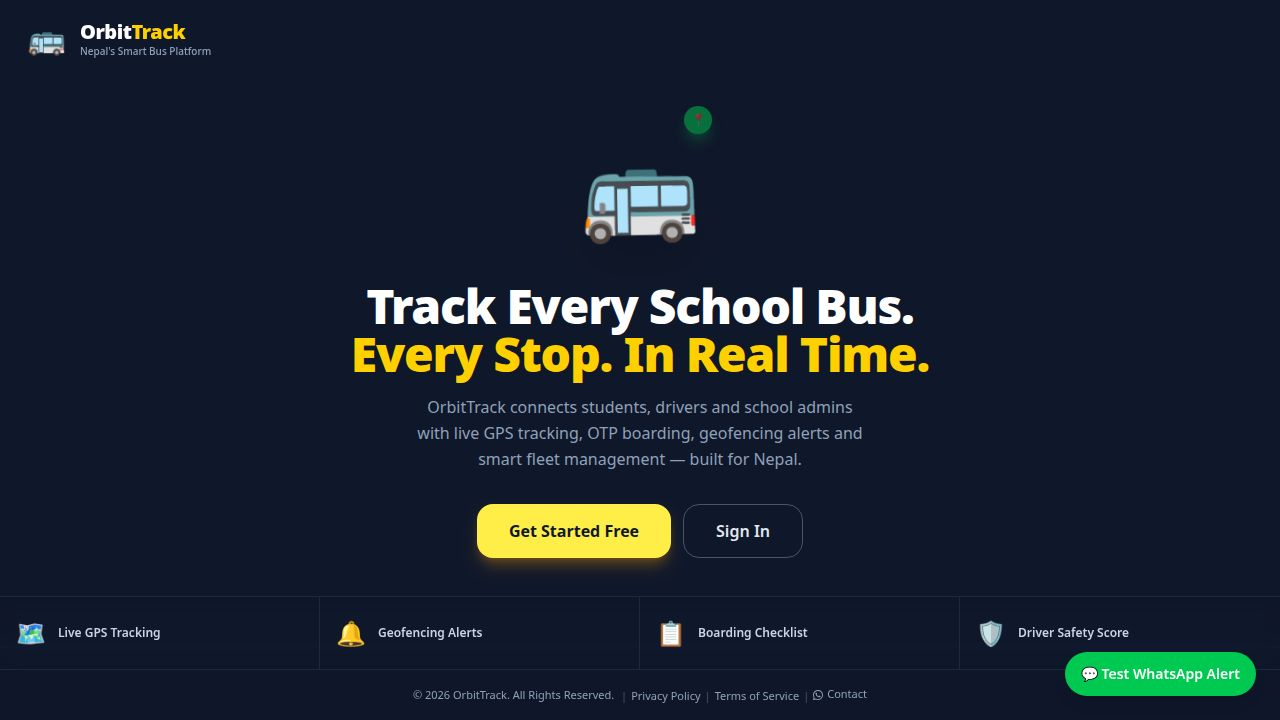
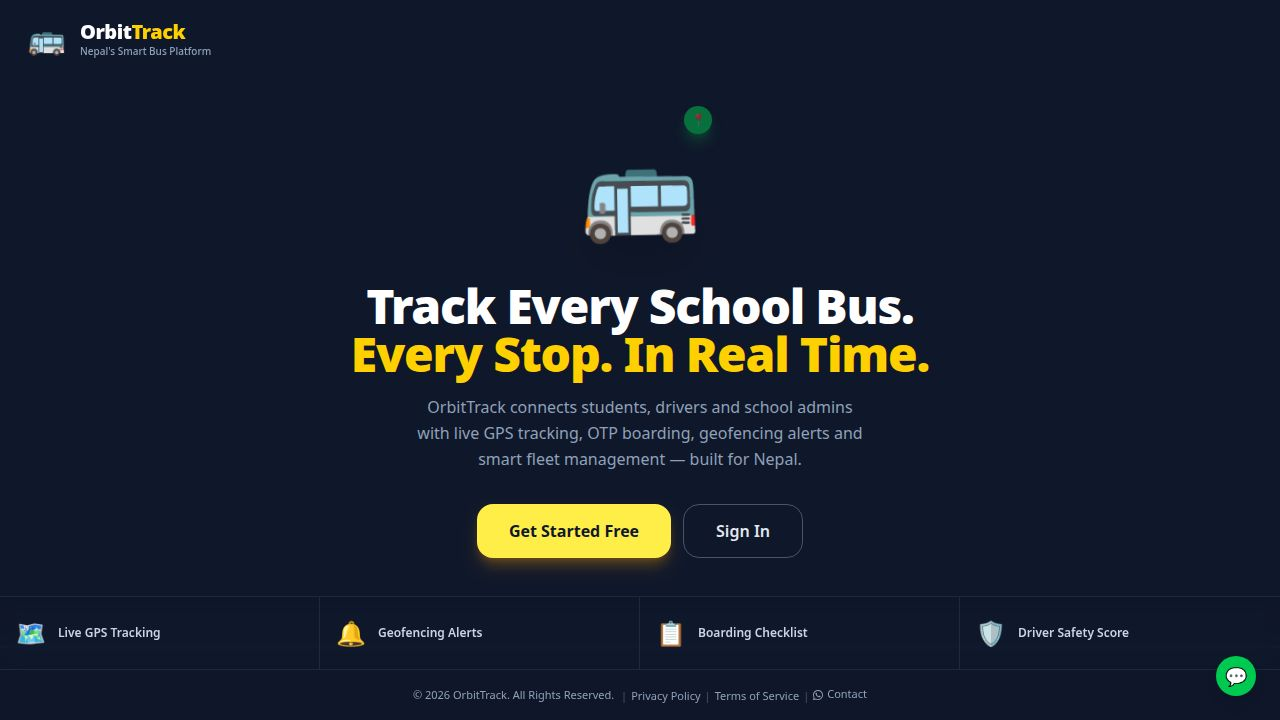
Add academic details for new passenger entries
Update OpenAPI spec, API route, and admin portal to include and save new academic fields (className, section, rollNumber, faculty) for passenger entries.

Replit-Commit-Author: Agent
Replit-Commit-Session-Id: 70f28b21-9f35-4176-a611-d1af39612fbb
Replit-Commit-Checkpoint-Type: full_checkpoint
Replit-Commit-Event-Id: f4b3c610-271e-43f9-a047-bb73ec9e167e
Replit-Commit-Screenshot-Url: https://storage.googleapis.com/screenshot-production-us-central1/33c7862f-0438-4adc-83ae-af5ac11d06a3/70f28b21-9f35-4176-a611-d1af39612fbb/tFJGwiF
Replit-Helium-Checkpoint-Created: true

Changed region(s): [[0.8125, 0.8861, 1.0, 0.9778]]

diff --git a/artifacts/fleetsaas/src/components/portals/admin-portal.tsx b/artifacts/fleetsaas/src/components/portals/admin-portal.tsx
@@ -2632,6 +2632,10 @@ export default function AdminPortal() {
   const [pPhoto, setPPhoto] = useState("");
   const [pPhoneFound, setPPhoneFound] = useState<"idle" | "checking" | "found" | "new">("idle");
   const [pSchoolCode, setPSchoolCode] = useState("");
+  const [pClass, setPClass] = useState("");
+  const [pSection, setPSection] = useState("");
+  const [pRollNo, setPRollNo] = useState("");
+  const [pFaculty, setPFaculty] = useState("");
 
   const [dName, setDName] = useState("");
   const [dPhone, setDPhone] = useState("");
@@ -2734,14 +2738,27 @@ export default function AdminPortal() {
       }
     }
     try {
-      await apiPost("/passengers", { name: pName, role: pRole, stationId: Number(pStation), phone: pPhone.trim() || undefined, routeId: pRouteId ? Number(pRouteId) : undefined, photoUrl: pPhoto || undefined });
+      await apiPost("/passengers", {
+        name: pName,
+        role: pRole,
+        stationId: Number(pStation),
+        phone: pPhone.trim() || undefined,
+        routeId: pRouteId ? Number(pRouteId) : undefined,
+        photoUrl: pPhoto || undefined,
+        className: pClass.trim() || undefined,
+        section: pSection.trim() || undefined,
+        rollNumber: pRollNo.trim() || undefined,
+        faculty: pFaculty.trim() || undefined,
+      });
       queryClient.invalidateQueries({ queryKey: getListPassengersQueryKey() });
       refetchPassengers();
-      setModal(null); setPName(""); setPRole("student"); setPPhone(""); setPRouteId(""); setPPhoto("");
+      setModal(null);
+      setPName(""); setPRole("student"); setPPhone(""); setPRouteId(""); setPPhoto("");
       setPPhoneFound("idle"); setPSchoolCode("");
+      setPClass(""); setPSection(""); setPRollNo(""); setPFaculty("");
     } catch (e: unknown) { setErr(e instanceof Error ? e.message : "Failed"); }
     finally { setLoading(false); }
-  }, [pName, pRole, pStation, pPhone, pRouteId, pPhoto, pPhoneFound, pSchoolCode, tenant, queryClient, refetchPassengers]);
+  }, [pName, pRole, pStation, pPhone, pRouteId, pPhoto, pPhoneFound, pSchoolCode, pClass, pSection, pRollNo, pFaculty, tenant, queryClient, refetchPassengers]);
 
   const handleAddDriver = useCallback(async () => {
     setErr(""); setLoading(true);
@@ -3376,6 +3393,56 @@ export default function AdminPortal() {
                     </select>
                   </div>
                 </div>
+
+                {/* ── Academic Details ── */}
+                <div className="rounded-xl border border-border bg-muted/30 p-3 space-y-3">
+                  <p className="text-[10px] font-bold text-muted-foreground uppercase tracking-wider">Academic Details</p>
+                  <div className="grid grid-cols-2 gap-3">
+                    <div>
+                      <label className="mb-1 block text-xs font-semibold text-muted-foreground">Class / Grade</label>
+                      <select value={pClass} onChange={(e) => setPClass(e.target.value)}
+                        className="w-full rounded-xl border border-border bg-muted px-3 py-2.5 text-sm text-foreground outline-none focus:border-amber-500">
+                        <option value="">— Select —</option>
+                        {["Nursery","LKG","UKG","Class 1","Class 2","Class 3","Class 4","Class 5","Class 6","Class 7","Class 8","Class 9","Class 10","Class 11","Class 12"].map(c => (
+                          <option key={c} value={c}>{c}</option>
+                        ))}
+                      </select>
+                    </div>
+                    <div>
+                      <label className="mb-1 block text-xs font-semibold text-muted-foreground">Section</label>
+                      <input value={pSection} onChange={(e) => setPSection(e.target.value)} placeholder="A, B, Science…"
+                        className="w-full rounded-xl border border-border bg-muted px-3 py-2.5 text-sm text-foreground placeholder:text-muted-foreground outline-none focus:border-amber-500" />
+                    </div>
+                  </div>
+                  <div className="grid grid-cols-2 gap-3">
+                    <div>
+                      <label className="mb-1 block text-xs font-semibold text-muted-foreground">Roll No.</label>
+                      <input value={pRollNo} onChange={(e) => setPRollNo(e.target.value)} placeholder="e.g. 042"
+                        className="w-full rounded-xl border border-border bg-muted px-3 py-2.5 text-sm text-foreground placeholder:text-muted-foreground outline-none focus:border-amber-500" />
+                    </div>
+                    <div>
+                      <label className="mb-1 block text-xs font-semibold text-muted-foreground">Faculty / Stream</label>
+                      <select value={pFaculty} onChange={(e) => setPFaculty(e.target.value)}
+                        className="w-full rounded-xl border border-border bg-muted px-3 py-2.5 text-sm text-foreground outline-none focus:border-amber-500">
+                        <option value="">N/A</option>
+                        <option value="Science">Science</option>
+                        <option value="Management">Management</option>
+                        <option value="Humanities">Humanities</option>
+                        <option value="Law">Law</option>
+                        <option value="Education">Education</option>
+                        <option value="Hotel Management">Hotel Management</option>
+                      </select>
+                    </div>
+                  </div>
+                  <div>
+                    <label className="mb-1 block text-xs font-semibold text-muted-foreground">School Code</label>
+                    <input value={pSchoolCode} onChange={(e) => setPSchoolCode(e.target.value.toUpperCase())}
+                      placeholder="Auto-filled from your school — confirm to link"
+                      className="w-full rounded-xl border border-border bg-muted px-3 py-2.5 text-sm text-foreground font-mono tracking-wider outline-none focus:border-amber-500 placeholder:font-sans placeholder:tracking-normal" />
+                    <p className="mt-1 text-[11px] text-muted-foreground">Matches the school code visible in your Admin settings</p>
+                  </div>
+                </div>
+
                 <div>
                   <label className="mb-1 block text-xs font-semibold text-muted-foreground">
                     Assigned Bus Route <span className="text-muted-foreground/60">(connects student to bus)</span>

diff --git a/artifacts/api-server/src/routes/passengers.ts b/artifacts/api-server/src/routes/passengers.ts
@@ -139,10 +139,23 @@ router.post("/", async (req, res) => {
   if (!parsed.success) {
     return res.status(400).json({ error: parsed.error.message });
   }
-  const { name, phone, photoUrl, role, stationId, routeId } = parsed.data;
+  const { name, phone, photoUrl, role, stationId, routeId, className, section, rollNumber, faculty } = parsed.data;
   const [row] = await db
     .insert(passengersTable)
-    .values({ tenantId: req.tenantId, name, phone: phone ?? null, photoUrl: photoUrl ?? null, role: role ?? "student", stationId, routeId: routeId ?? null, status: "pending" })
+    .values({
+      tenantId: req.tenantId,
+      name,
+      phone: phone ?? null,
+      photoUrl: photoUrl ?? null,
+      role: role ?? "student",
+      stationId,
+      routeId: routeId ?? null,
+      status: "pending",
+      className: className ?? null,
+      section: section ?? null,
+      rollNumber: rollNumber ?? null,
+      faculty: faculty ?? null,
+    })
     .returning();
 
   // Auto-create a users record so this person can log in with their phone number.